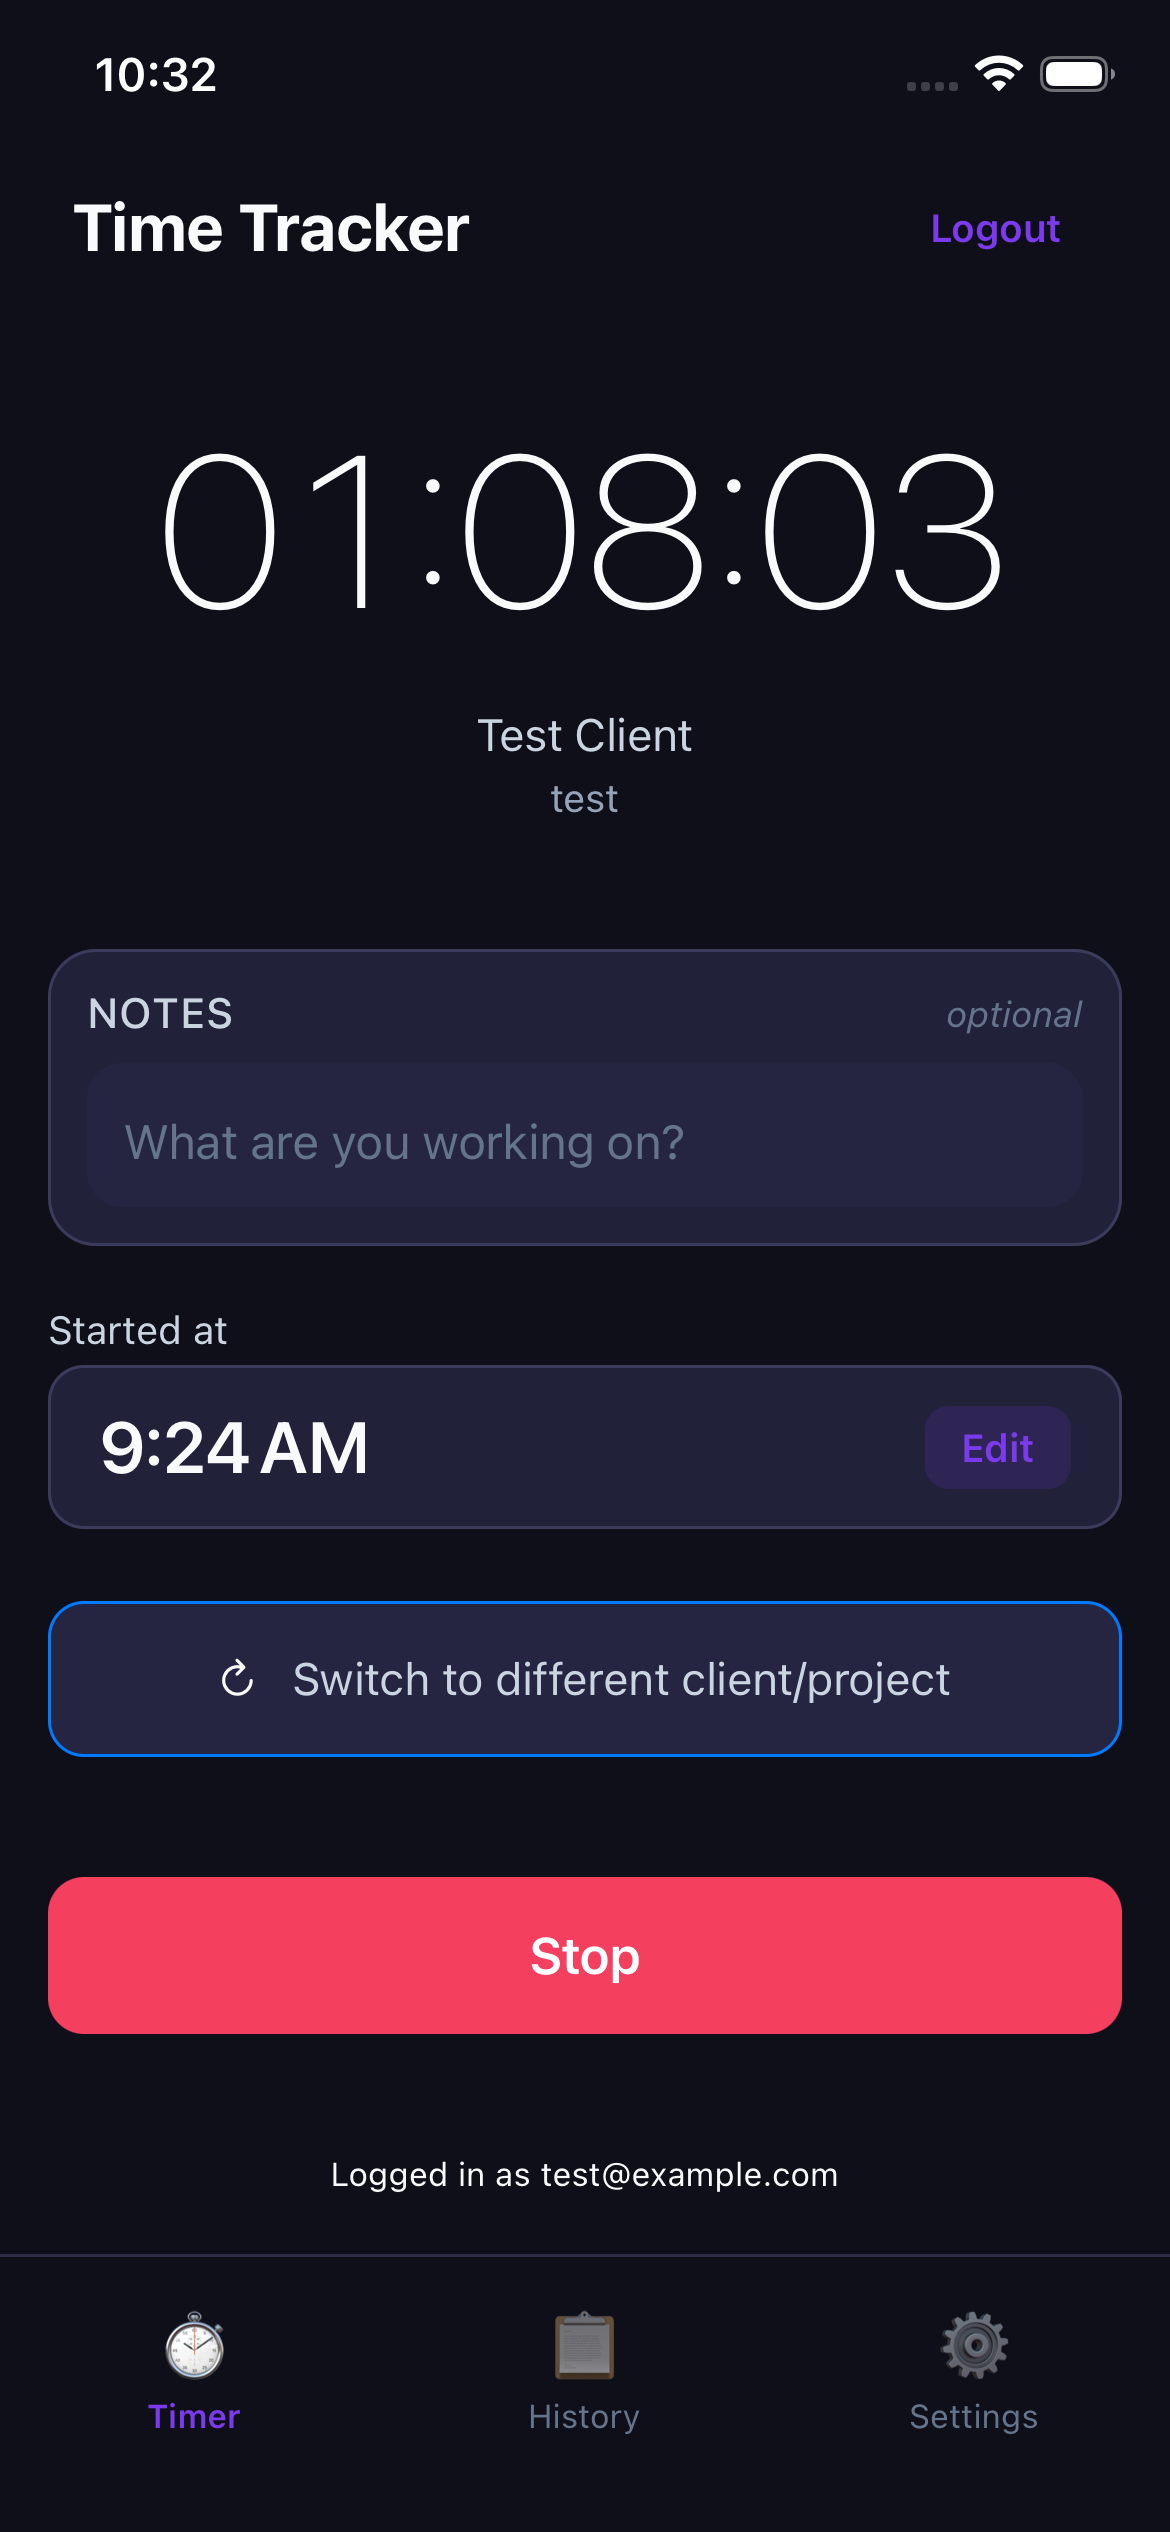
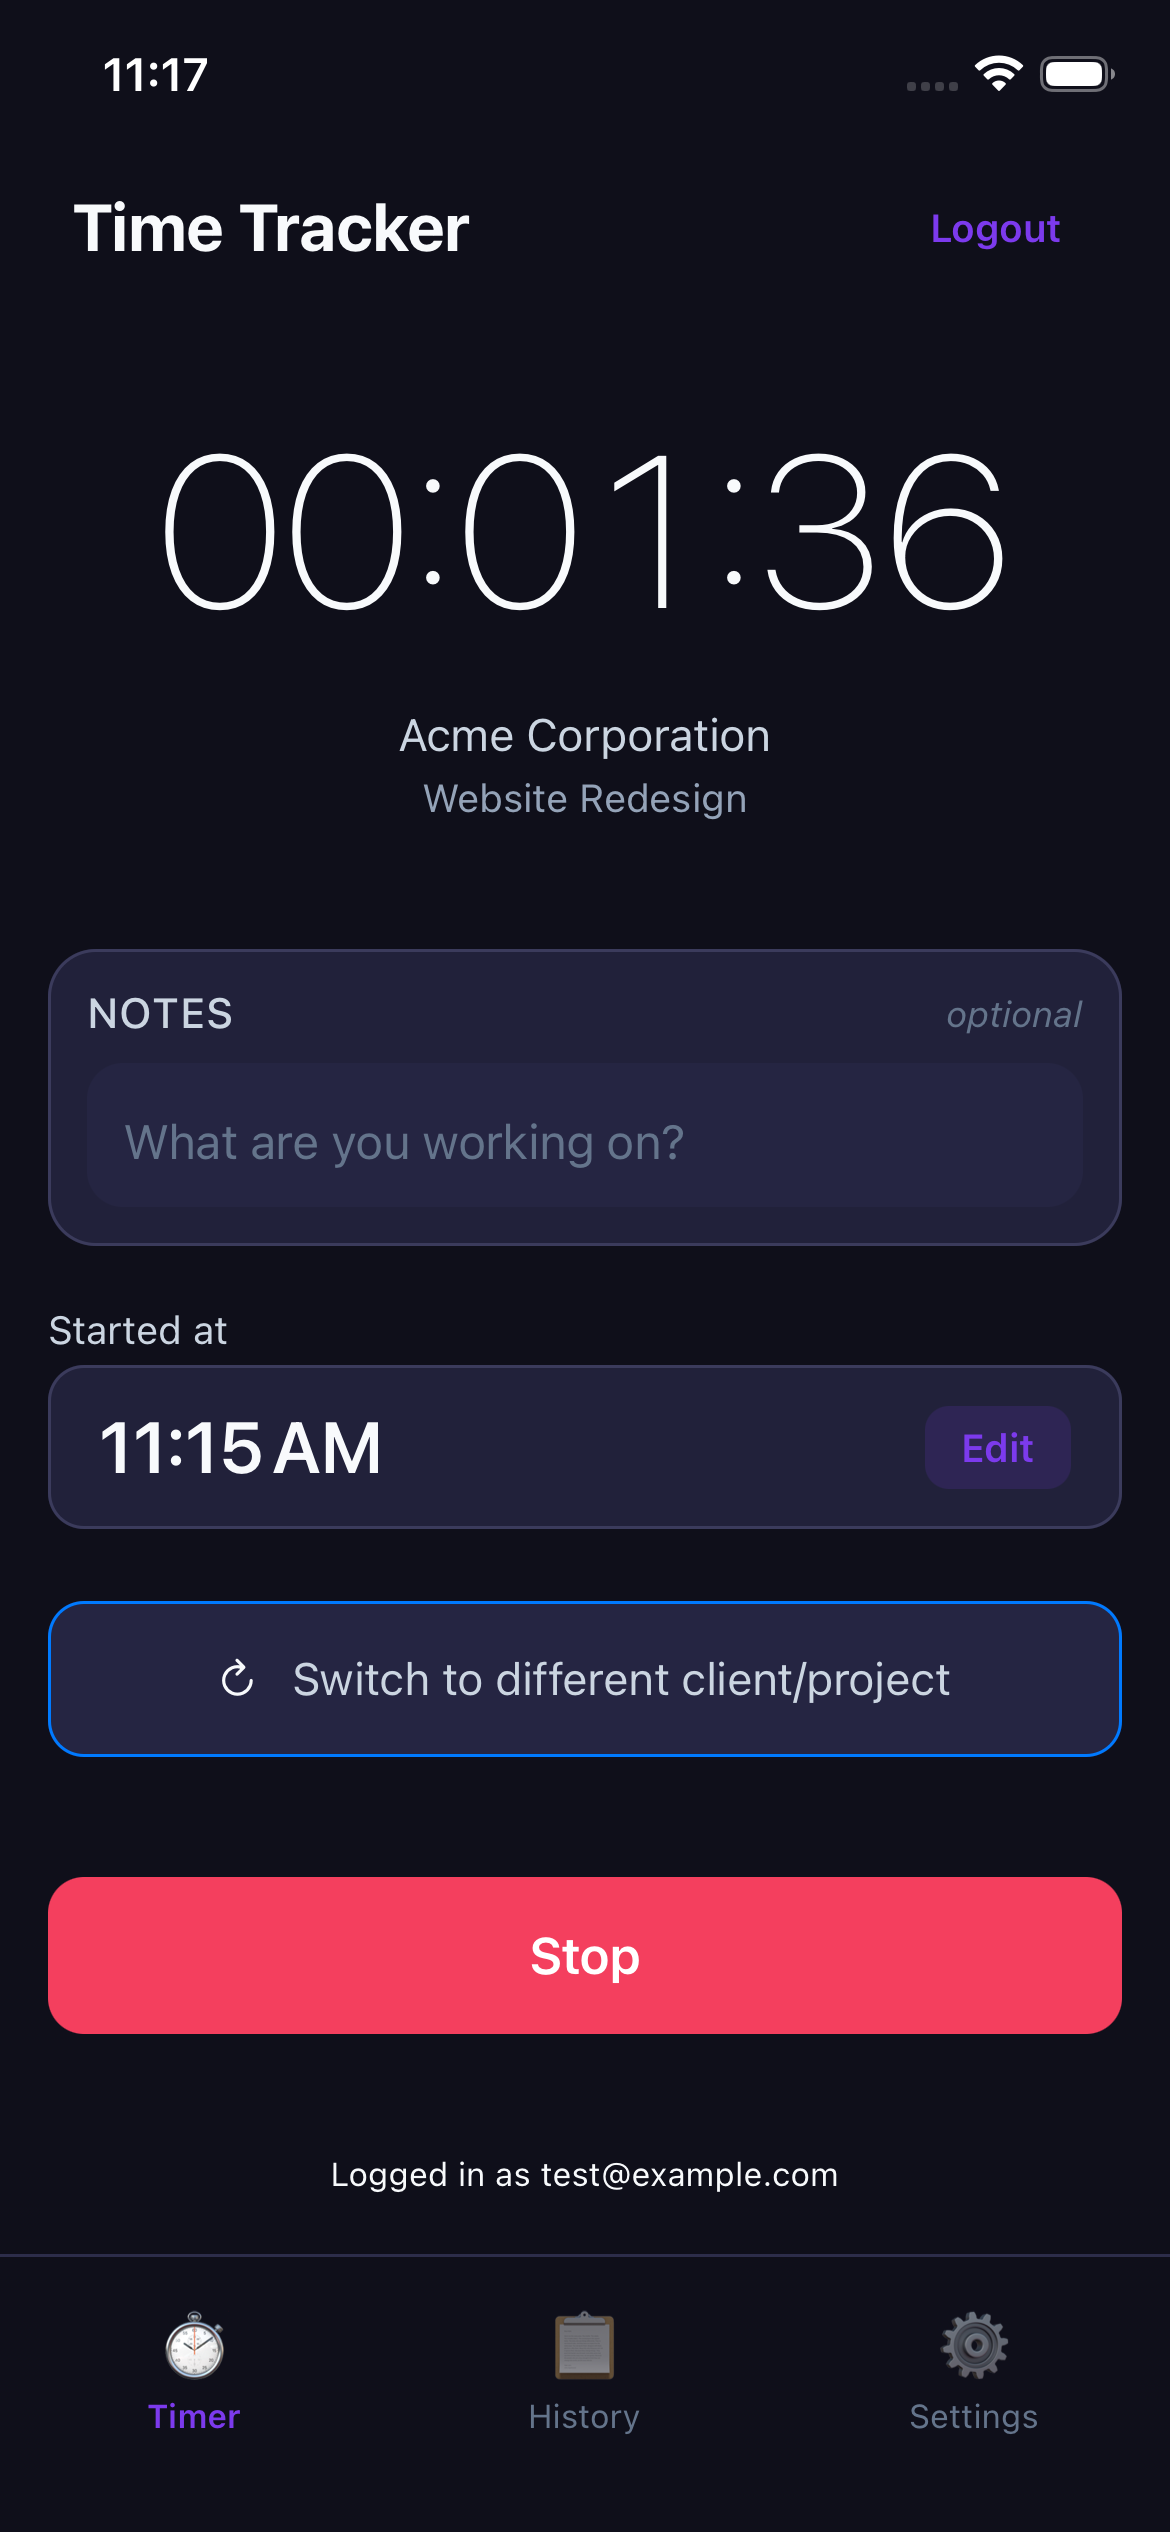
feat(cli): Add seed command with realistic test data
- Add tt seed command to populate database with test data
- Create seed.sql reference file for Supabase
- Clean clients: Acme Corporation, TechStart Inc, Green Energy Solutions, Digital Marketing Pro
- Include projects and tasks for each client
- Update PR screenshots with real test data

diff --git a/packages/cli/src/seed.ts b/packages/cli/src/seed.ts
@@ -1,0 +1,150 @@
+/**
+ * Seed command - populate database with test data
+ */
+
+import { createClient } from '@supabase/supabase-js';
+import { getConfig } from '@time-tracker/repositories/supabase/config';
+
+interface SeedClient {
+  id: string;
+  name: string;
+}
+
+interface SeedProject {
+  id: string;
+  client_id: string;
+  name: string;
+}
+
+interface SeedTask {
+  id: string;
+  project_id: string;
+  name: string;
+}
+
+// Use proper UUID format (hex only - no letters beyond a-f)
+const SEED_CLIENTS: SeedClient[] = [
+  { id: '01000001-0001-4001-8001-000000000001', name: 'Acme Corporation' },
+  { id: '01000001-0001-4001-8001-000000000002', name: 'TechStart Inc' },
+  { id: '01000001-0001-4001-8001-000000000003', name: 'Green Energy Solutions' },
+  { id: '01000001-0001-4001-8001-000000000004', name: 'Digital Marketing Pro' },
+];
+
+const SEED_PROJECTS: SeedProject[] = [
+  // Acme Corporation
+  { id: '02000001-0001-4001-8001-000000000001', client_id: '01000001-0001-4001-8001-000000000001', name: 'Website Redesign' },
+  { id: '02000001-0001-4001-8001-000000000002', client_id: '01000001-0001-4001-8001-000000000001', name: 'Mobile App Development' },
+  { id: '02000001-0001-4001-8001-000000000003', client_id: '01000001-0001-4001-8001-000000000001', name: 'API Integration' },
+  // TechStart Inc
+  { id: '02000001-0001-4001-8001-000000000004', client_id: '01000001-0001-4001-8001-000000000002', name: 'MVP Development' },
+  { id: '02000001-0001-4001-8001-000000000005', client_id: '01000001-0001-4001-8001-000000000002', name: 'User Research' },
+  // Green Energy Solutions
+  { id: '02000001-0001-4001-8001-000000000006', client_id: '01000001-0001-4001-8001-000000000003', name: 'Dashboard Development' },
+  { id: '02000001-0001-4001-8001-000000000007', client_id: '01000001-0001-4001-8001-000000000003', name: 'Data Analytics' },
+  // Digital Marketing Pro
+  { id: '02000001-0001-4001-8001-000000000008', client_id: '01000001-0001-4001-8001-000000000004', name: 'Campaign Management' },
+  { id: '02000001-0001-4001-8001-000000000009', client_id: '01000001-0001-4001-8001-000000000004', name: 'Social Media Integration' },
+];
+
+const SEED_TASKS: SeedTask[] = [
+  // Website Redesign
+  { id: '03000001-0001-4001-8001-000000000001', project_id: '02000001-0001-4001-8001-000000000001', name: 'Design mockups' },
+  { id: '03000001-0001-4001-8001-000000000002', project_id: '02000001-0001-4001-8001-000000000001', name: 'Frontend development' },
+  { id: '03000001-0001-4001-8001-000000000003', project_id: '02000001-0001-4001-8001-000000000001', name: 'Testing & QA' },
+  // Mobile App Development
+  { id: '03000001-0001-4001-8001-000000000004', project_id: '02000001-0001-4001-8001-000000000002', name: 'iOS development' },
+  { id: '03000001-0001-4001-8001-000000000005', project_id: '02000001-0001-4001-8001-000000000002', name: 'Android development' },
+  { id: '03000001-0001-4001-8001-000000000006', project_id: '02000001-0001-4001-8001-000000000002', name: 'Code review' },
+  // MVP Development
+  { id: '03000001-0001-4001-8001-000000000007', project_id: '02000001-0001-4001-8001-000000000004', name: 'Architecture planning' },
+  { id: '03000001-0001-4001-8001-000000000008', project_id: '02000001-0001-4001-8001-000000000004', name: 'Core features' },
+  { id: '03000001-0001-4001-8001-000000000009', project_id: '02000001-0001-4001-8001-000000000004', name: 'Bug fixes' },
+  // Dashboard Development
+  { id: '03000001-0001-4001-8001-000000000010', project_id: '02000001-0001-4001-8001-000000000006', name: 'UI components' },
+  { id: '03000001-0001-4001-8001-000000000011', project_id: '02000001-0001-4001-8001-000000000006', name: 'Data visualization' },
+  { id: '03000001-0001-4001-8001-000000000012', project_id: '02000001-0001-4001-8001-000000000006', name: 'Performance optimization' },
+];
+
+export async function seedDatabase(): Promise<void> {
+  // Get config from file or env
+  const config = getConfig();
+  if (!config) {
+    throw new Error('Supabase not configured. Run `tt config` first or set SUPABASE_URL and SUPABASE_PUBLISHABLE_KEY environment variables.');
+  }
+  
+  const supabase = createClient(config.supabaseUrl, config.supabaseKey);
+  
+  // Authenticate as test user for RLS
+  console.log('Authenticating as test user...');
+  const { error: authError } = await supabase.auth.signInWithPassword({
+    email: 'test@example.com',
+    password: 'Test1234',
+  });
+  
+  if (authError) {
+    throw new Error(`Authentication failed: ${authError.message}. Make sure test@example.com user exists.`);
+  }
+  console.log('✓ Authenticated\n');
+
+  // Clean up old test data first
+  console.log('Cleaning up old test data...');
+  const { error: deleteClientsError } = await supabase
+    .from('clients')
+    .delete()
+    .not('id', 'in', `(${SEED_CLIENTS.map(c => `"${c.id}"`).join(',')})`);
+  
+  if (deleteClientsError) {
+    console.log(`  Note: ${deleteClientsError.message}`);
+  } else {
+    console.log('  ✓ Cleaned up old clients');
+  }
+
+  console.log('\nSeeding database with test data...\n');
+
+  // Seed clients
+  console.log('Adding clients...');
+  for (const client of SEED_CLIENTS) {
+    const { error } = await supabase
+      .from('clients')
+      .upsert(client, { onConflict: 'id' });
+    
+    if (error) {
+      console.error(`  ✗ ${client.name}: ${error.message}`);
+    } else {
+      console.log(`  ✓ ${client.name}`);
+    }
+  }
+
+  // Seed projects
+  console.log('\nAdding projects...');
+  for (const project of SEED_PROJECTS) {
+    const { error } = await supabase
+      .from('projects')
+      .upsert(project, { onConflict: 'id' });
+    
+    if (error) {
+      console.error(`  ✗ ${project.name}: ${error.message}`);
+    } else {
+      console.log(`  ✓ ${project.name}`);
+    }
+  }
+
+  // Seed tasks
+  console.log('\nAdding tasks...');
+  for (const task of SEED_TASKS) {
+    const { error } = await supabase
+      .from('tasks')
+      .upsert(task, { onConflict: 'id' });
+    
+    if (error) {
+      console.error(`  ✗ ${task.name}: ${error.message}`);
+    } else {
+      console.log(`  ✓ ${task.name}`);
+    }
+  }
+
+  console.log('\n✓ Seed complete!');
+  console.log(`  ${SEED_CLIENTS.length} clients`);
+  console.log(`  ${SEED_PROJECTS.length} projects`);
+  console.log(`  ${SEED_TASKS.length} tasks`);
+}

diff --git a/packages/cli/src/index.ts b/packages/cli/src/index.ts
@@ -12,9 +12,10 @@ import { startTimer, stopTimer, getStatus, getRunningTimer } from './timeEntry.j
 import { runInteractiveMode } from './interactive.js';
 import { configCommand, ensureConfig, showConfig } from './config.js';
 import { loginCommand, logoutCommand, whoamiCommand, ensureAuth } from './auth.js';
+import { seedDatabase } from './seed.js';
 
 // Commands that don't require authentication
-const AUTH_EXEMPT = ['config', 'login', 'logout', 'whoami'];
+const AUTH_EXEMPT = ['config', 'login', 'logout', 'whoami', 'seed'];
 
 program
   .name('tt')
@@ -382,6 +383,18 @@ program
   .description('Show current logged-in user')
   .action(async () => {
     await whoamiCommand();
+  });
+
+program
+  .command('seed')
+  .description('Seed database with test data (clients, projects, tasks)')
+  .action(async () => {
+    try {
+      await seedDatabase();
+    } catch (error) {
+      console.error(error instanceof Error ? error.message : 'Failed to seed database');
+      process.exit(1);
+    }
   });
 
 // Default action (interactive mode)
